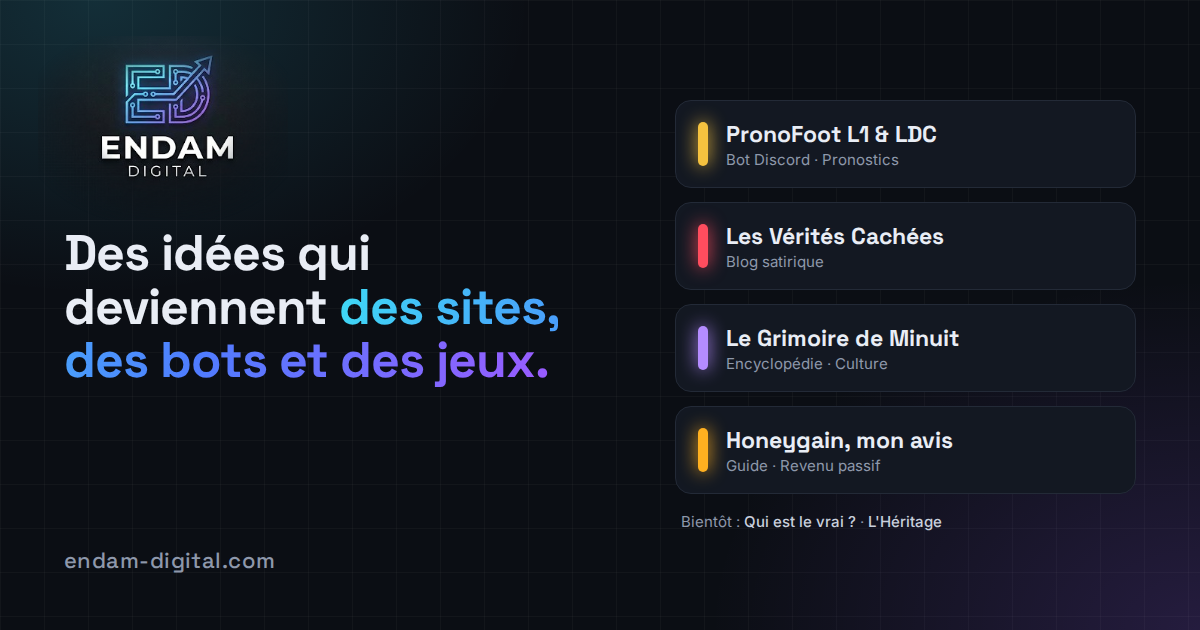
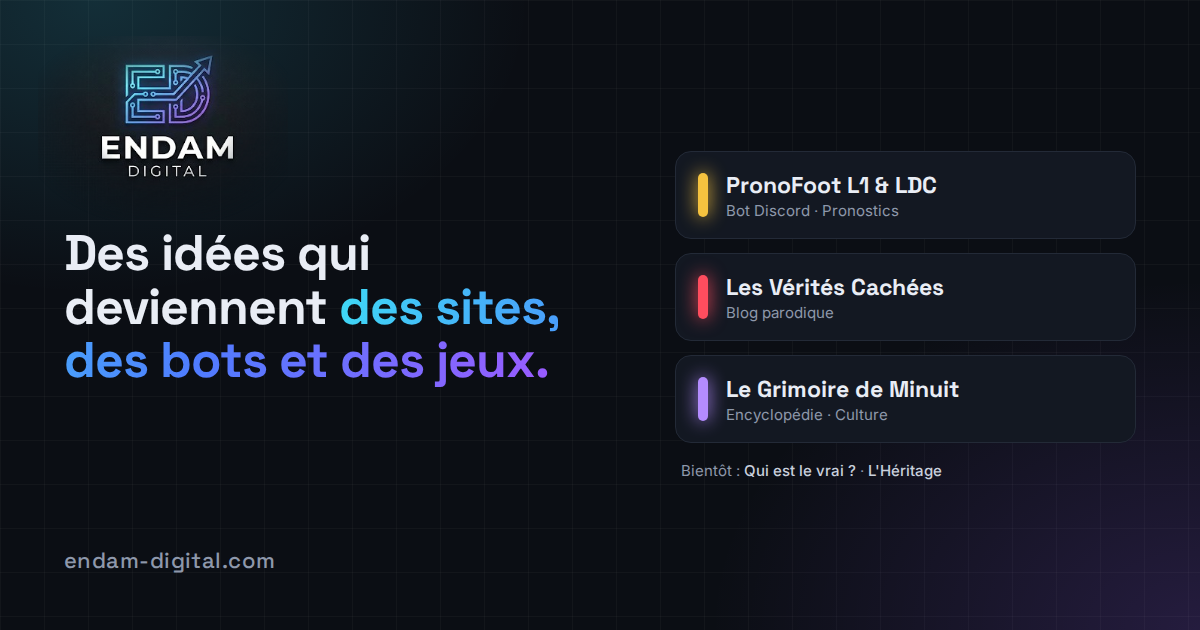
Vitrine : contenu revu
- étiquette « Parodie » sur la carte du dernier article
- chiffres réels et automatiques (sorts du Grimoire, enquêtes du blog)
- Honeygain sorti de la grille, lien discret sous les projets ; grille sur 3 colonnes
- formulations : 100 % gratuit, bots Discord et automatisations, sans « levée de fonds »
- carte Grimoire sans chiffres figés ; image de partage mise à jour

Claude-Session: https://claude.ai/code/session_01UFggrWQgdSJWH6aP7tHCbd

Changed region(s): [[0.555, 0.181, 0.8017, 0.7841], [0.555, 0.8143, 0.8017, 0.8444]]

diff --git a/index.html b/index.html
@@ -16,7 +16,7 @@
 <meta property="og:image" content="https://endam-digital.com/og-image.png">
 <meta property="og:image:width" content="1200">
 <meta property="og:image:height" content="630">
-<meta property="og:image:alt" content="Endam Digital : PronoFoot, Les Vérités Cachées, Le Grimoire de Minuit, Honeygain">
+<meta property="og:image:alt" content="Endam Digital : PronoFoot, Les Vérités Cachées, Le Grimoire de Minuit">
 <meta name="twitter:card" content="summary_large_image">
 <meta name="twitter:title" content="Endam Digital — projets web, jeux et expériences">
 <meta name="twitter:description" content="Un labo de projets web : pronos foot, satire, grimoire, et deux jeux en préparation.">
@@ -114,7 +114,15 @@ h2{font-family:"Space Grotesk",sans-serif;font-size:clamp(24px,3.2vw,32px);lette
 .tag{font-size:11px;letter-spacing:.14em;text-transform:uppercase;color:var(--dim);display:block;margin-bottom:6px}
 
 /* cartes projets */
-.grid{display:grid;grid-template-columns:repeat(2,1fr);gap:20px}
+.grid{display:grid;grid-template-columns:repeat(3,1fr);gap:20px}
+.grid .go .url{display:none}
+.aside-link{margin-top:22px;font-size:14.5px;color:var(--muted);text-align:center}
+.aside-link a{color:var(--text);border-bottom:1px solid color-mix(in srgb,#ffb020 50%,transparent);padding-bottom:1px}
+.aside-link a:hover{border-bottom-color:#ffb020}
+.aside-link a:hover .arrow{transform:translateX(4px)}
+.aside-link .arrow{display:inline-block;transition:transform .25s}
+.aside-link .dim{color:var(--dim);font-size:13px}
+@media (max-width:980px){.grid{grid-template-columns:1fr 1fr}.grid .card:last-child{grid-column:1/-1}}
 .card{--a:var(--cyan);--a2:var(--violet);
   position:relative;display:flex;flex-direction:column;min-height:300px;padding:28px;border-radius:var(--r);
   background:var(--card);border:1px solid var(--line);overflow:hidden;
@@ -147,7 +155,6 @@ h2{font-family:"Space Grotesk",sans-serif;font-size:clamp(24px,3.2vw,32px);lette
 .c-prono{--a:#f5c23f;--a2:#2e7dff}
 .c-verites{--a:#ff4d5e}
 .c-grimoire{--a:#b48cff}
-.c-honey{--a:#ffb020}
 
 /* teasing */
 .teasers{display:grid;grid-template-columns:repeat(2,1fr);gap:20px}
@@ -203,7 +210,9 @@ footer a:hover{color:var(--text)}
 .tile .more{margin-top:auto;padding-top:16px;font-size:14px;font-weight:600}
 .tile:hover .arrow{transform:translateX(5px)}
 .t-art{--a:#ff4d5e;padding:0}
-.t-art .thumb{aspect-ratio:16/7;background:#1a1f2b center/cover no-repeat;border-bottom:1px solid var(--line)}
+.t-art .thumb{position:relative;aspect-ratio:16/7;background:#1a1f2b center/cover no-repeat;border-bottom:1px solid var(--line)}
+.parody{position:absolute;left:14px;top:14px;font:700 11px/1 Inter,system-ui,sans-serif;letter-spacing:.14em;text-transform:uppercase;
+  color:#fff;background:#ff4d5e;padding:6px 10px;border-radius:6px;box-shadow:0 4px 14px rgba(0,0,0,.4);transform:rotate(-3deg)}
 .t-art .body{padding:20px 24px 24px;display:flex;flex-direction:column;flex:1}
 .t-sab,.t-moon{--a:#b48cff}
 .big{font-family:"Space Grotesk",sans-serif;font-size:34px;font-weight:700;line-height:1.1}
@@ -235,7 +244,9 @@ a:focus-visible{outline:2px solid var(--cyan);outline-offset:3px;border-radius:6
   .go .url{display:none}
   nav ul li:nth-child(3){display:none}
   .card,.tease{padding:22px}
-  .stats{gap:26px}
+  .stats{gap:14px 20px;flex-wrap:nowrap}
+  .stats div{font-size:26px;flex:1;text-align:center}
+  .stats small{font-size:10px;letter-spacing:.06em}
   .tease .ghost{font-size:140px}
 }
 </style>
@@ -266,9 +277,9 @@ a:focus-visible{outline:2px solid var(--cyan);outline-offset:3px;border-radius:6
   <h1>Des idées qui deviennent <em>des sites, des bots et des jeux.</em></h1>
   <p class="lead">Endam Digital, c'est mon atelier numérique : des projets web qui me passionnent, du pronostic foot au grimoire de minuit.</p>
   <div class="stats">
-    <div>4<small>projets en ligne</small></div>
-    <div>2<small>en préparation</small></div>
-    <div>100 %<small>indépendant</small></div>
+    <div><span id="st-sorts">57</span><small>sorts au grimoire</small></div>
+    <div><span id="st-enquetes">13</span><small>enquêtes parodiques</small></div>
+    <div>2<small>compétitions suivies</small></div>
   </div>
 </header>
 
@@ -285,7 +296,7 @@ a:focus-visible{outline:2px solid var(--cyan);outline-offset:3px;border-radius:6
       <h3>PronoFoot L1 &amp; LDC</h3>
       <div class="kind">Bot Discord · Pronostics</div>
       <p>Le bot de pronostics Ligue 1 et Ligue des Champions : tu pronostiques, tu marques des points, tu défies tes potes en duel et tu grimpes au classement.</p>
-      <div class="chips"><span>Ligue 1</span><span>Ligue des Champions</span><span>Duels</span><span>Classement VIP</span></div>
+      <div class="chips"><span>Ligue 1</span><span>Ligue des Champions</span><span>Duels</span><span>100 % gratuit</span></div>
       <div class="go"><b>Rejoindre le club <span class="arrow">→</span></b><span class="url">pronofoot.endam-digital.com</span></div>
     </a>
 
@@ -302,21 +313,13 @@ a:focus-visible{outline:2px solid var(--cyan);outline-offset:3px;border-radius:6
       <div class="top"><div class="icon">🌙</div><span class="status">En ligne</span></div>
       <h3>Le Grimoire de Minuit</h3>
       <div class="kind">Encyclopédie · Culture</div>
-      <p>Un Livre des Ombres à feuilleter : 57 sorts, 10 rituels, les 8 sabbats, la lune du jour, le tarot et quatre mille ans d'histoire des sorcières.</p>
-      <div class="chips"><span>57 sorts</span><span>Lune du jour</span><span>Générateur de sigils</span><span>Lettre du samedi</span></div>
+      <p>Un Livre des Ombres à feuilleter : des dizaines de sorts et de rituels, les 8 sabbats, la lune du jour, le tarot et quatre mille ans d'histoire des sorcières.</p>
+      <div class="chips"><span>Sorts et rituels</span><span>Lune du jour</span><span>Générateur de sigils</span><span>Lettre du samedi</span></div>
       <div class="go"><b>Ouvrir le grimoire <span class="arrow">→</span></b><span class="url">grimoire.endam-digital.com</span></div>
     </a>
 
-    <a class="card c-honey reveal" data-goatcounter-click="clic-honeygain" href="https://honeygain.endam-digital.com" rel="sponsored">
-      <div class="top"><div class="icon">🍯</div><span class="status">En ligne</span></div>
-      <h3>Honeygain, mon avis</h3>
-      <div class="kind">Guide · Revenu passif</div>
-      <p>Mon retour d'expérience honnête sur Honeygain, l'appli qui rémunère ta bande passante inutilisée : comment ça marche, ce que ça rapporte vraiment, et si c'est sûr.</p>
-      <div class="chips"><span>Avis honnête</span><span>Guide pas à pas</span><span>FAQ</span></div>
-      <div class="note">Contient un lien de parrainage.</div>
-      <div class="go"><b>Lire le guide <span class="arrow">→</span></b><span class="url">honeygain.endam-digital.com</span></div>
-    </a>
   </div>
+  <p class="aside-link reveal">Aussi sur Endam Digital : <a href="https://honeygain.endam-digital.com" rel="sponsored" data-goatcounter-click="clic-honeygain">mon avis honnête sur Honeygain, l'appli qui rémunère ta bande passante <span class="arrow">→</span></a> <span class="dim">(lien de parrainage)</span></p>
 </section>
 
 <section id="nouveautes" class="wrap">
@@ -327,9 +330,9 @@ a:focus-visible{outline:2px solid var(--cyan);outline-offset:3px;border-radius:6
 
   <div class="news">
     <a class="tile t-art reveal" id="n-art" data-goatcounter-click="neuf-article" href="https://les-verites-cachees.endam-digital.com/">
-      <div class="thumb" id="n-art-img"></div>
+      <div class="thumb" id="n-art-img"><span class="parody">Parodie</span></div>
       <div class="body">
-        <span class="src">Vérités Cachées · Dernier article</span>
+        <span class="src">Vérités Cachées · Dernière parodie</span>
         <h3 id="n-art-title">Les dernières révélations qu'ils ne veulent pas que tu lises</h3>
         <div class="when" id="n-art-date">Nouvel article régulièrement</div>
         <div class="more">Lire l'article <span class="arrow">→</span></div>
@@ -395,11 +398,11 @@ a:focus-visible{outline:2px solid var(--cyan);outline-offset:3px;border-radius:6
     <div>
       <span class="tag">À propos</span>
       <h2>L'esprit Endam Digital</h2>
-      <p>Endam Digital est un atelier numérique indépendant. Chaque projet part d'une envie simple : construire quelque chose d'utile, de drôle ou d'intrigant, le mettre en ligne vite, puis l'améliorer au fil des retours. Pas de levée de fonds, pas de jargon : des idées testées pour de vrai.</p>
+      <p>Endam Digital est un atelier numérique indépendant. Chaque projet part d'une envie simple : construire quelque chose d'utile, de drôle ou d'intrigant, le mettre en ligne vite, puis l'améliorer au fil des retours. Des idées testées pour de vrai.</p>
     </div>
     <ul>
       <li><span><b>Sites et contenus</b> : blogs, guides et encyclopédies en ligne</span></li>
-      <li><span><b>Bots et automatisation</b> : Discord, IA, outils sur mesure</span></li>
+      <li><span><b>Bots et automatisation</b> : bots Discord et automatisations</span></li>
       <li><span><b>Jeux</b> : expériences narratives et jeux de soirée</span></li>
     </ul>
   </div>
@@ -477,6 +480,13 @@ document.querySelectorAll('.reveal').forEach(el=>io.observe(el));
     $("n-art-title").textContent=a.title;
     $("n-art-date").textContent=a.date||"";
     if(a.img)$("n-art-img").style.backgroundImage='url("'+BLOG+String(a.img).replace(/"/g,"")+'")';
+    $("st-enquetes").textContent=list.length;
+  }).catch(function(){});
+
+  // Nombre de sorts du Grimoire (index de recherche du site)
+  fetch("https://grimoire.endam-digital.com/assets/search.json").then(function(r){if(!r.ok)throw 0;return r.json()}).then(function(idx){
+    var n=idx.filter(function(x){return /^Sort\b/.test(x.k||"")}).length;
+    if(n>0)$("st-sorts").textContent=n;
   }).catch(function(){});
 
   // Prochain sabbat (mêmes dates que le Grimoire)
